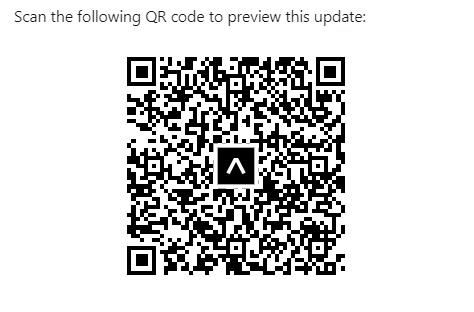
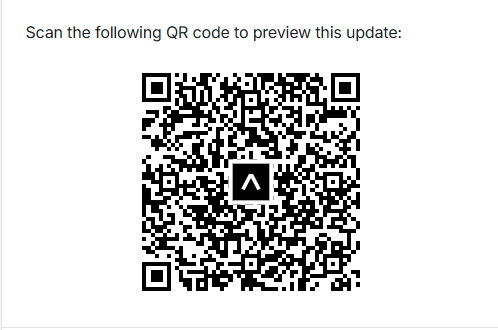
upd qr

Changed region(s): [[0.2658, 0.1731, 0.7384, 0.8942], [0.0295, 0.0288, 0.827, 0.1442], [0.0, 0.9808, 1.0, 1.0]]

diff --git a/components/utils/fetchData.js b/components/utils/fetchData.js
@@ -25,7 +25,7 @@ const fetchData = async (offset, limit) => {
             
             const error = new Error(`Failed to fetch: ${response.status} ${response.statusText}`);
             error.response = response;
-            error.errorData = errorData; // Прикрепляем данные об ошибке к объекту ошибки
+            error.errorData = errorData; 
             throw error;
         }
 

diff --git a/README.md b/README.md
@@ -13,4 +13,4 @@ npx expo start
 ```
 можно сканировать с помощью [expo go](https://expo.dev/go) - qr код ниже
 ![qr код](./example/qr%20expo.png "qr код")
-по ссылке [expo qr](https://expo.dev/preview/update?message=Initial%20update%20for%20preview&updateRuntimeVersion=1.0.0&createdAt=2024-04-12T12%3A02%3A11.660Z&slug=exp&projectId=ba894ef3-a368-499f-83aa-05948ed177b6&group=d04d7dbf-ed2e-45aa-a8b1-ad4b8c15615e)
+по ссылке [expo qr](https://expo.dev/preview/update?message=upd%2053&updateRuntimeVersion=1.0.0&createdAt=2025-05-14T11%3A04%3A57.067Z&slug=exp&projectId=ba894ef3-a368-499f-83aa-05948ed177b6&group=dfbbc437-0a5e-4ea2-96db-4f95c26330b2)
